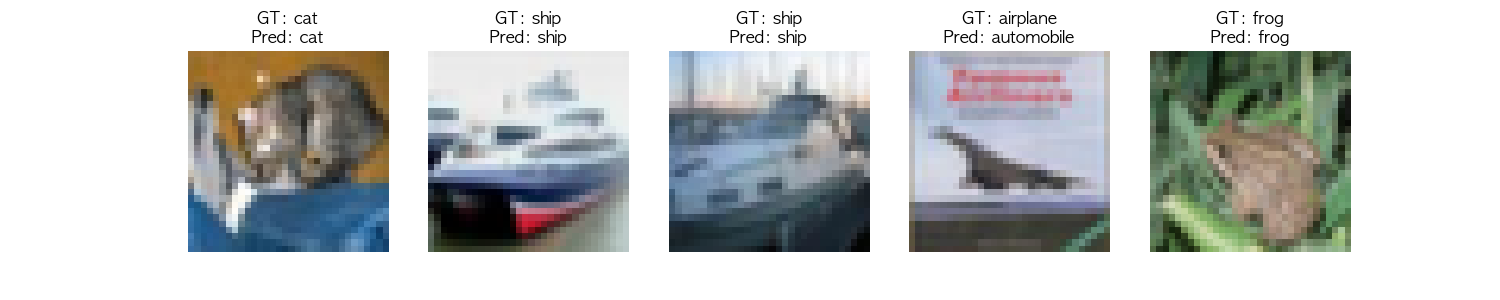
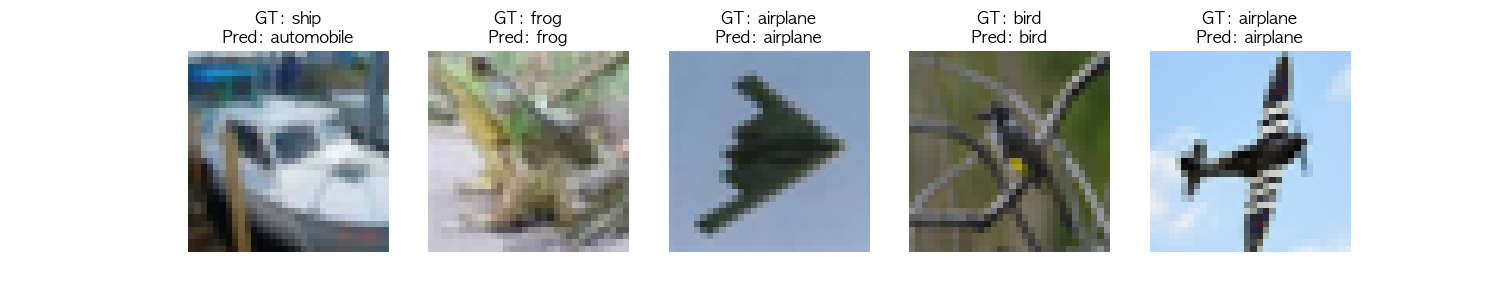
feat: replace fixed test samples with random selection for prediction display

diff --git a/predict.py b/predict.py
@@ -33,9 +33,13 @@ def unnormalize(img):
     return np.clip(img, 0, 1)  # 값 범위를 [0,1]로 제한
 
 
-# 데이터 가져오기
-images, labels = next(iter(testloader))
-images, labels = images.to(device), labels.to(device)
+# 테스트셋에서 무작위 이미지 5장 추출
+num_samples = 5
+indices = torch.randperm(len(testset))[:num_samples]
+
+# 선택된 인덱스로부터 이미지와 라벨 로드
+images = torch.stack([testset[i][0] for i in indices]).to(device)
+labels = torch.tensor([testset[i][1] for i in indices]).to(device)
 
 # 모델 예측
 with torch.no_grad():
@@ -43,18 +47,19 @@ with torch.no_grad():
     _, predicted = torch.max(outputs, 1)
 
 # 시각화
-fig, axes = plt.subplots(1, 5, figsize=(15, 3))
+fig, axes = plt.subplots(1, num_samples, figsize=(15, 3))
 classes = testset.classes
 
-for i in range(5):
-    img = images[i].cpu().numpy().transpose(1, 2, 0)  #  / 2 + 0.5 (C, H, W) → (H, W, C)
-    img = unnormalize(img)  # 정규화 해제
+for i in range(num_samples):
+    img = images[i].cpu().numpy().transpose(1, 2, 0)
+    img = unnormalize(img)
     axes[i].imshow(img)
     axes[i].set_title(f"GT: {classes[labels[i]]}\nPred: {classes[predicted[i]]}")
     axes[i].axis("off")
 
 plt.savefig("predictions.png")
 plt.show()
+
 
 # 전체 테스트셋 정확도 측정
 correct = 0
